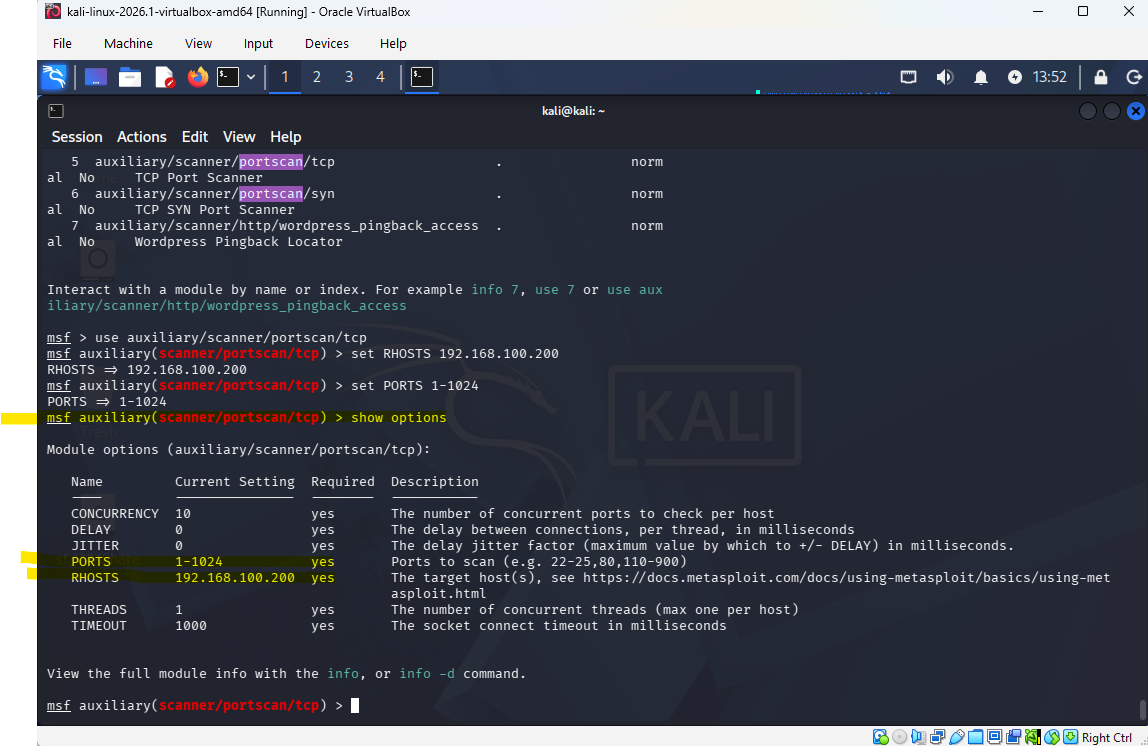
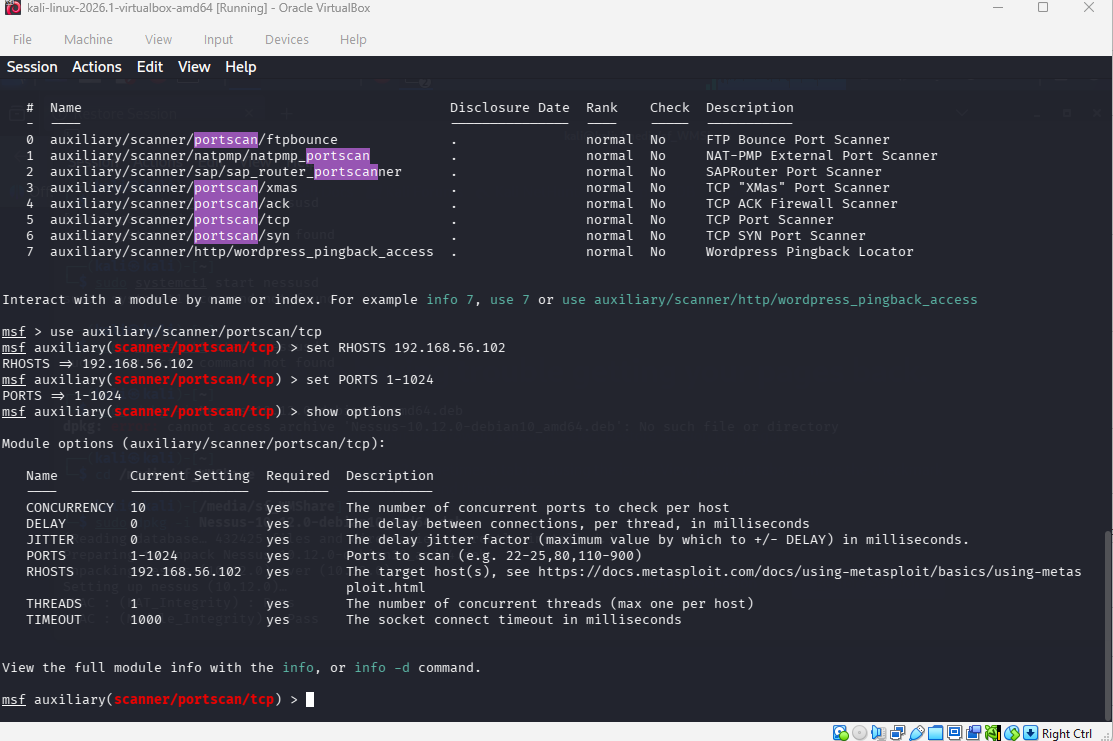
ip add corrected

diff --git a/assignments/weekly-projects/project-3-penTesting1.md b/assignments/weekly-projects/project-3-penTesting1.md
@@ -80,7 +80,7 @@ use auxiliary/scanner/portscan/tcp
 The target IP address was configured:
 
 ```bash
-set RHOSTS 192.168.100.200
+set RHOSTS 192.168.56.102
 ```
 
 The scan range was limited to ports 1 through 1024: